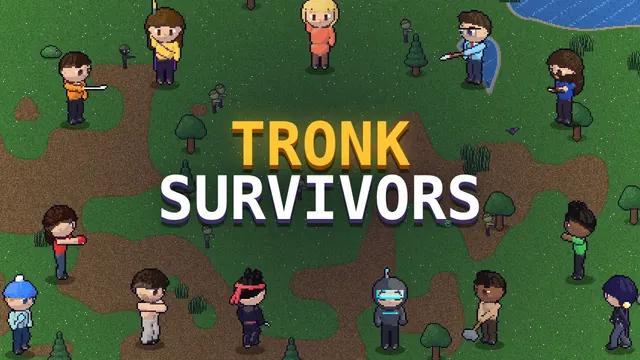
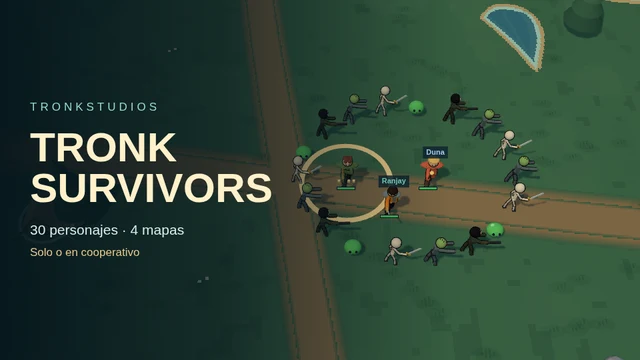
Actualiza la portada, integra las barras de desplazamiento y repara las demos de puños

diff --git a/juegos/tronk-survivors/index.html b/juegos/tronk-survivors/index.html
@@ -4,7 +4,7 @@
   <meta charset="utf-8" />
   <meta name="viewport" content="width=device-width, initial-scale=1" />
   <title>Tronk Survivors · Juego de sobrevivir a hordas gratis en el navegador | TronkStudios</title>
-  <meta name="description" content="Juega gratis a Tronk Survivors, un juego de sobrevivir a hordas en el navegador al estilo Vampire Survivors: 24 personajes stickman, 4 mapas, jefes, modo online con amigos y reto diario. Para ordenador, móvil y tablet." />
+  <meta name="description" content="Juega gratis a Tronk Survivors, un juego de sobrevivir a hordas en el navegador al estilo Vampire Survivors: 30 personajes con armas y técnicas propias, 4 mapas, jefes, modo online con amigos y reto diario. Para ordenador, móvil y tablet." />
   <meta name="robots" content="index, follow, max-image-preview:large" />
   <link rel="canonical" href="https://tronkstudios.github.io/juegos/tronk-survivors/" />
   <meta name="theme-color" content="#0b1220" />
@@ -15,14 +15,14 @@
   <meta property="og:site_name" content="TronkStudios" />
   <meta property="og:locale" content="es_ES" />
   <meta property="og:title" content="Tronk Survivors · Juego de sobrevivir a hordas gratis en el navegador" />
-  <meta property="og:description" content="Juega gratis a Tronk Survivors, un juego de sobrevivir a hordas en el navegador al estilo Vampire Survivors: 24 personajes stickman, 4 mapas, jefes, modo online con amigos y reto diario. Para ordenador, móvil y tablet." />
+  <meta property="og:description" content="Juega gratis a Tronk Survivors, un juego de sobrevivir a hordas en el navegador al estilo Vampire Survivors: 30 personajes con armas y técnicas propias, 4 mapas, jefes, modo online con amigos y reto diario. Para ordenador, móvil y tablet." />
   <meta property="og:url" content="https://tronkstudios.github.io/juegos/tronk-survivors/" />
-  <meta property="og:image" content="https://tronkstudios.github.io/img/juegos/tronk-survivors.webp" />
+  <meta property="og:image" content="https://tronkstudios.github.io/img/juegos/tronk-survivors.webp?v=2" />
   <meta property="og:image:alt" content="Tronk Survivors" />
   <meta name="twitter:card" content="summary_large_image" />
   <meta name="twitter:title" content="Tronk Survivors · Juego de sobrevivir a hordas gratis en el navegador" />
-  <meta name="twitter:description" content="Juega gratis a Tronk Survivors, un juego de sobrevivir a hordas en el navegador al estilo Vampire Survivors: 24 personajes stickman, 4 mapas, jefes, modo online con amigos y reto diario. Para ordenador, móvil y tablet." />
-  <meta name="twitter:image" content="https://tronkstudios.github.io/img/juegos/tronk-survivors.webp" />
+  <meta name="twitter:description" content="Juega gratis a Tronk Survivors, un juego de sobrevivir a hordas en el navegador al estilo Vampire Survivors: 30 personajes con armas y técnicas propias, 4 mapas, jefes, modo online con amigos y reto diario. Para ordenador, móvil y tablet." />
+  <meta name="twitter:image" content="https://tronkstudios.github.io/img/juegos/tronk-survivors.webp?v=2" />
 
   <link rel="stylesheet" href="/css/juego.css?v=3" />
   <script type="application/ld+json">
@@ -32,8 +32,8 @@
     "@type": "VideoGame",
     "name": "Tronk Survivors",
     "url": "https://tronkstudios.github.io/juegos/tronk-survivors/",
-    "image": "https://tronkstudios.github.io/img/juegos/tronk-survivors.webp",
-    "description": "Juega gratis a Tronk Survivors, un juego de sobrevivir a hordas en el navegador al estilo Vampire Survivors: 24 personajes stickman, 4 mapas, jefes, modo online con amigos y reto diario. Para ordenador, móvil y tablet.",
+    "image": "https://tronkstudios.github.io/img/juegos/tronk-survivors.webp?v=2",
+    "description": "Juega gratis a Tronk Survivors, un juego de sobrevivir a hordas en el navegador al estilo Vampire Survivors: 30 personajes con armas y técnicas propias, 4 mapas, jefes, modo online con amigos y reto diario. Para ordenador, móvil y tablet.",
     "genre": [
       "Roguelike",
       "Acción",
@@ -156,7 +156,7 @@
         <p class="game-note">Sin descargas ni registro. Con cuenta, tus récords salen en la clasificación.</p>
       </div>
       <a class="game-shot" href="/survivors/" aria-label="Jugar a Tronk Survivors">
-        <img src="/img/juegos/tronk-survivors.webp" alt="Captura de Tronk Survivors" width="640" height="360" loading="eager" fetchpriority="high" decoding="async" />
+        <img src="/img/juegos/tronk-survivors.webp?v=2" alt="Tronk Survivors: 30 personajes, cuatro mapas y supervivencia cooperativa" width="640" height="360" loading="eager" fetchpriority="high" decoding="async" />
       </a>
     </section>
 
@@ -175,13 +175,13 @@
       <article class="game-card">
         <h2>Controles</h2>
         <dl class="game-controls">
-          <div><dt>Ordenador</dt><dd>Moverse: W A S D o flechas · Habilidad especial: Espacio · Elegir mejora: 1, 2, 3 · Pausa: Esc.</dd></div>
-          <div><dt>Móvil y tablet</dt><dd>Se juega en horizontal. Arrastra el dedo para moverte y toca el botón redondo para la habilidad especial.</dd></div>
+          <div><dt>Ordenador</dt><dd>Moverse: W A S D o flechas · Habilidad especial: Espacio · Impulso: Mayúsculas · Elegir mejora: 1, 2, 3 · Pausa: Esc.</dd></div>
+          <div><dt>Móvil y tablet</dt><dd>Juega en vertical u horizontal. Arrastra el joystick para moverte y usa los botones de habilidad e impulso.</dd></div>
         </dl>
         <h2>Lo mejor</h2>
         <ul>
-          <li>24 personajes stickman, entre ellos los de Tronk Fight</li>
-          <li>24 armas propias con técnicas personales, dos caminos de evolución y 11 objetos</li>
+          <li>30 personajes con armas y técnicas propias, entre ellos los de Tronk Fight</li>
+          <li>Diez técnicas por personaje, cinco rangos por técnica y dos caminos de evolución del arma</li>
           <li>Guardianes con escudo, sanadores y tiradores con ataques señalizados</li>
           <li>Campamentos, altares, farolas de refugio y corrientes según el mapa</li>
           <li>Combina viento y fuego o hielo y electricidad con tus compañeros</li>

diff --git a/survivors/css/depth.css b/survivors/css/depth.css
@@ -30,3 +30,22 @@ button.hud-compass{pointer-events:auto;font-family:inherit;cursor:pointer;text-a
 .upgrade-ranks{display:flex;align-items:center;flex-wrap:wrap;gap:5px 10px;margin:6px 0;color:#bad6d4;font-size:10px;line-height:1.4}.rank-steps{display:inline-flex;gap:3px}.rank-steps i{width:13px;height:4px;background:#0a1c28;border:1px solid #65828b;border-radius:2px}.rank-steps .is-owned{background:#96b9bc;border-color:#96b9bc}.rank-steps .is-next{background:#f4cf89;border-color:#ffe1a4;box-shadow:0 0 4px #f4cf8944}
 #hud-ab:disabled{opacity:.55}
 @media (any-pointer:coarse){.pause-build{gap:10px}.up-card .upgrade-ranks{font-size:10px}}
+
+/* Keep native scrolling, with the same teal and gold as the game panels. */
+:root { color-scheme: dark; }
+* { scrollbar-color: #bfa16b #102630; scrollbar-width: thin; }
+@supports selector(::-webkit-scrollbar) {
+  * { scrollbar-color: auto; scrollbar-width: auto; }
+  ::-webkit-scrollbar { width: 12px; height: 12px; }
+  ::-webkit-scrollbar-track { background: #102630; border-radius: 10px; }
+  ::-webkit-scrollbar-thumb { background: #bfa16b; border: 3px solid #102630; border-radius: 10px; min-height: 36px; }
+  ::-webkit-scrollbar-thumb:hover { background: #f2d397; }
+  ::-webkit-scrollbar-thumb:active { background: #ffe5af; }
+  ::-webkit-scrollbar-button { display: none; width: 0; height: 0; }
+  ::-webkit-scrollbar-corner { background: #102630; }
+}
+@media (forced-colors: active) {
+  * { scrollbar-color: auto; scrollbar-width: auto; }
+  ::-webkit-scrollbar-thumb { background: ButtonText; border-color: Canvas; }
+  ::-webkit-scrollbar-track, ::-webkit-scrollbar-corner { background: Canvas; }
+}

diff --git a/survivors/js/game.js b/survivors/js/game.js
@@ -2236,6 +2236,8 @@ if(attack?.source==="rupture")kb=Math.max(5,kb);
       const rank=clamp(Math.floor(previewOptions.rank || 3),1,5);
       const p=newPlayer(0,{charId});st.players=[p];p.weapons[0].lvl=rank;p.activePath=TS.ACTIVE_PATHS[previewOptions.activePath]?previewOptions.activePath:null;p.x=-72;p.y=20;p.aimX=1;p.aimY=0;
       const dummy={id:500,type:"esqueleto",x:95,y:20,hp:1e9,maxHp:1e9,r:12*U,slow:0,kx:0,ky:0,t:0,flash:0,face:-1,dir:"side",state:0,hits:{}};
+      const family=TS.WEAPONS[p.weapons[0].id].family || p.weapons[0].id;
+      if(["guantes","punos"].includes(family)){p.x=-42;dummy.x=28;}
       st.enemies=[dummy];buildGrid();
       if(move==="active")useAbility(p);
       else if(move!=="weapon")techniqueAttack(p,move,rank);
@@ -2243,7 +2245,10 @@ if(attack?.source==="rupture")kb=Math.max(5,kb);
       const steps=Math.min(80,Math.max(0,frame));
       for(let i=0;i<steps;i++){
         st.t++;if(p.activeEchoAt && st.t>=p.activeEchoAt){p.activeEchoAt=0;useAbility(p,true);}
-        if(p.atk)p.atk.t=Math.max(0,p.atk.t-1);updateShots();updateZones();
+        if(p.atk)p.atk.t=Math.max(0,p.atk.t-1);
+        // Fist attacks queue a combo; previews must advance it just like a run.
+        if(p.weapons[0].combo>0)duringAttack(p,move==="weapon"?"weapon":move,()=>updateWeapon(p,p.weapons[0]));
+        updateShots();updateZones();
         st.fx.forEach(f=>f.t++);st.fx=st.fx.filter(f=>f.t<f.life);
       }
       ctx.save();ctx.clearRect(0,0,canvas.width,canvas.height);ctx.fillStyle="#152832";ctx.fillRect(0,0,canvas.width,canvas.height);

diff --git a/survivors/index.html b/survivors/index.html
@@ -22,7 +22,7 @@
     content="default-src 'self'; script-src 'self' https://cdn.jsdelivr.net; style-src 'self' 'unsafe-inline'; img-src 'self' data: blob:; font-src 'self' data:; connect-src 'self' https://qjjnqhbtovjcbwgcwhgl.supabase.co wss://qjjnqhbtovjcbwgcwhgl.supabase.co https://tronkstudios-support.tronkstudios7.workers.dev; object-src 'none'; base-uri 'self'; form-action 'self'"
   />
   <link rel="stylesheet" href="survivors.css?v=17" />
-  <link rel="stylesheet" href="css/depth.css?v=3">
+  <link rel="stylesheet" href="css/depth.css?v=4">
   <link rel="stylesheet" href="css/mobile.css?v=3">
 </head>
 <body>
@@ -355,7 +355,7 @@
   <script src="js/lang.js?v=20" defer></script>
   <script src="js/save.js?v=9" defer></script>
   <script src="js/account.js?v=4" defer></script>
-  <script src="js/game.js?v=30" defer></script>
+  <script src="js/game.js?v=31" defer></script>
   <script src="js/net.js?v=10" defer></script>
   <script src="js/ui.js?v=27" defer></script>
 </body>

diff --git a/index.html b/index.html
@@ -897,10 +897,9 @@
           <article class="card dev-card minigame-card">
             <a class="minigame-open minigame-link" href="survivors/" aria-label="Jugar a Tronk Survivors">
               <div class="dev-card-media">
-                <span class="minigame-new">¡Nuevo!</span>
                 <img
-                  src="img/juegos/mini/tronk-survivors.webp"
-                  alt="Tronk Survivors - sobrevive a hordas de zombis con los Tronks"
+                  src="img/juegos/mini/tronk-survivors.webp?v=2"
+                  alt="Tronk Survivors - 30 personajes y supervivencia cooperativa"
                   loading="lazy"
                   data-fallback-label="Tronk Survivors" decoding="async" width="640" height="360" />
               </div>

diff --git a/sw.js b/sw.js
@@ -14,7 +14,7 @@
    Si algún día algo se queda «pegado» en una versión vieja, sube el
    número de CACHE_VERSION. */
 
-const CACHE_VERSION = 9;
+const CACHE_VERSION = 10;
 const CACHE_NAME = `tronkstudios-v${CACHE_VERSION}`;
 
 const AVATARS = [

diff --git a/tests/README.md b/tests/README.md
@@ -185,3 +185,5 @@ verifica el impulso del invitado en el anfitrión y su HUD. Ver
   teclado, marcadores de rango, activación accesible, elección única del invitado,
   cuatro siluetas hostiles, coordenadas 3D y movimiento reducido. Véase
   [Combate legible y equipo](../docs/survivors/combate-legible-y-equipo.md).
+
+`node tests/survivors.fist-preview.cjs` comprueba que las demostraciones de guantes y puños ejecuten el combo, golpeen al muñeco y terminen. Admite `BASE_URL`, `CHROMIUM_PATH` y `ALLOW_TEST_PROXY_CERT`.
